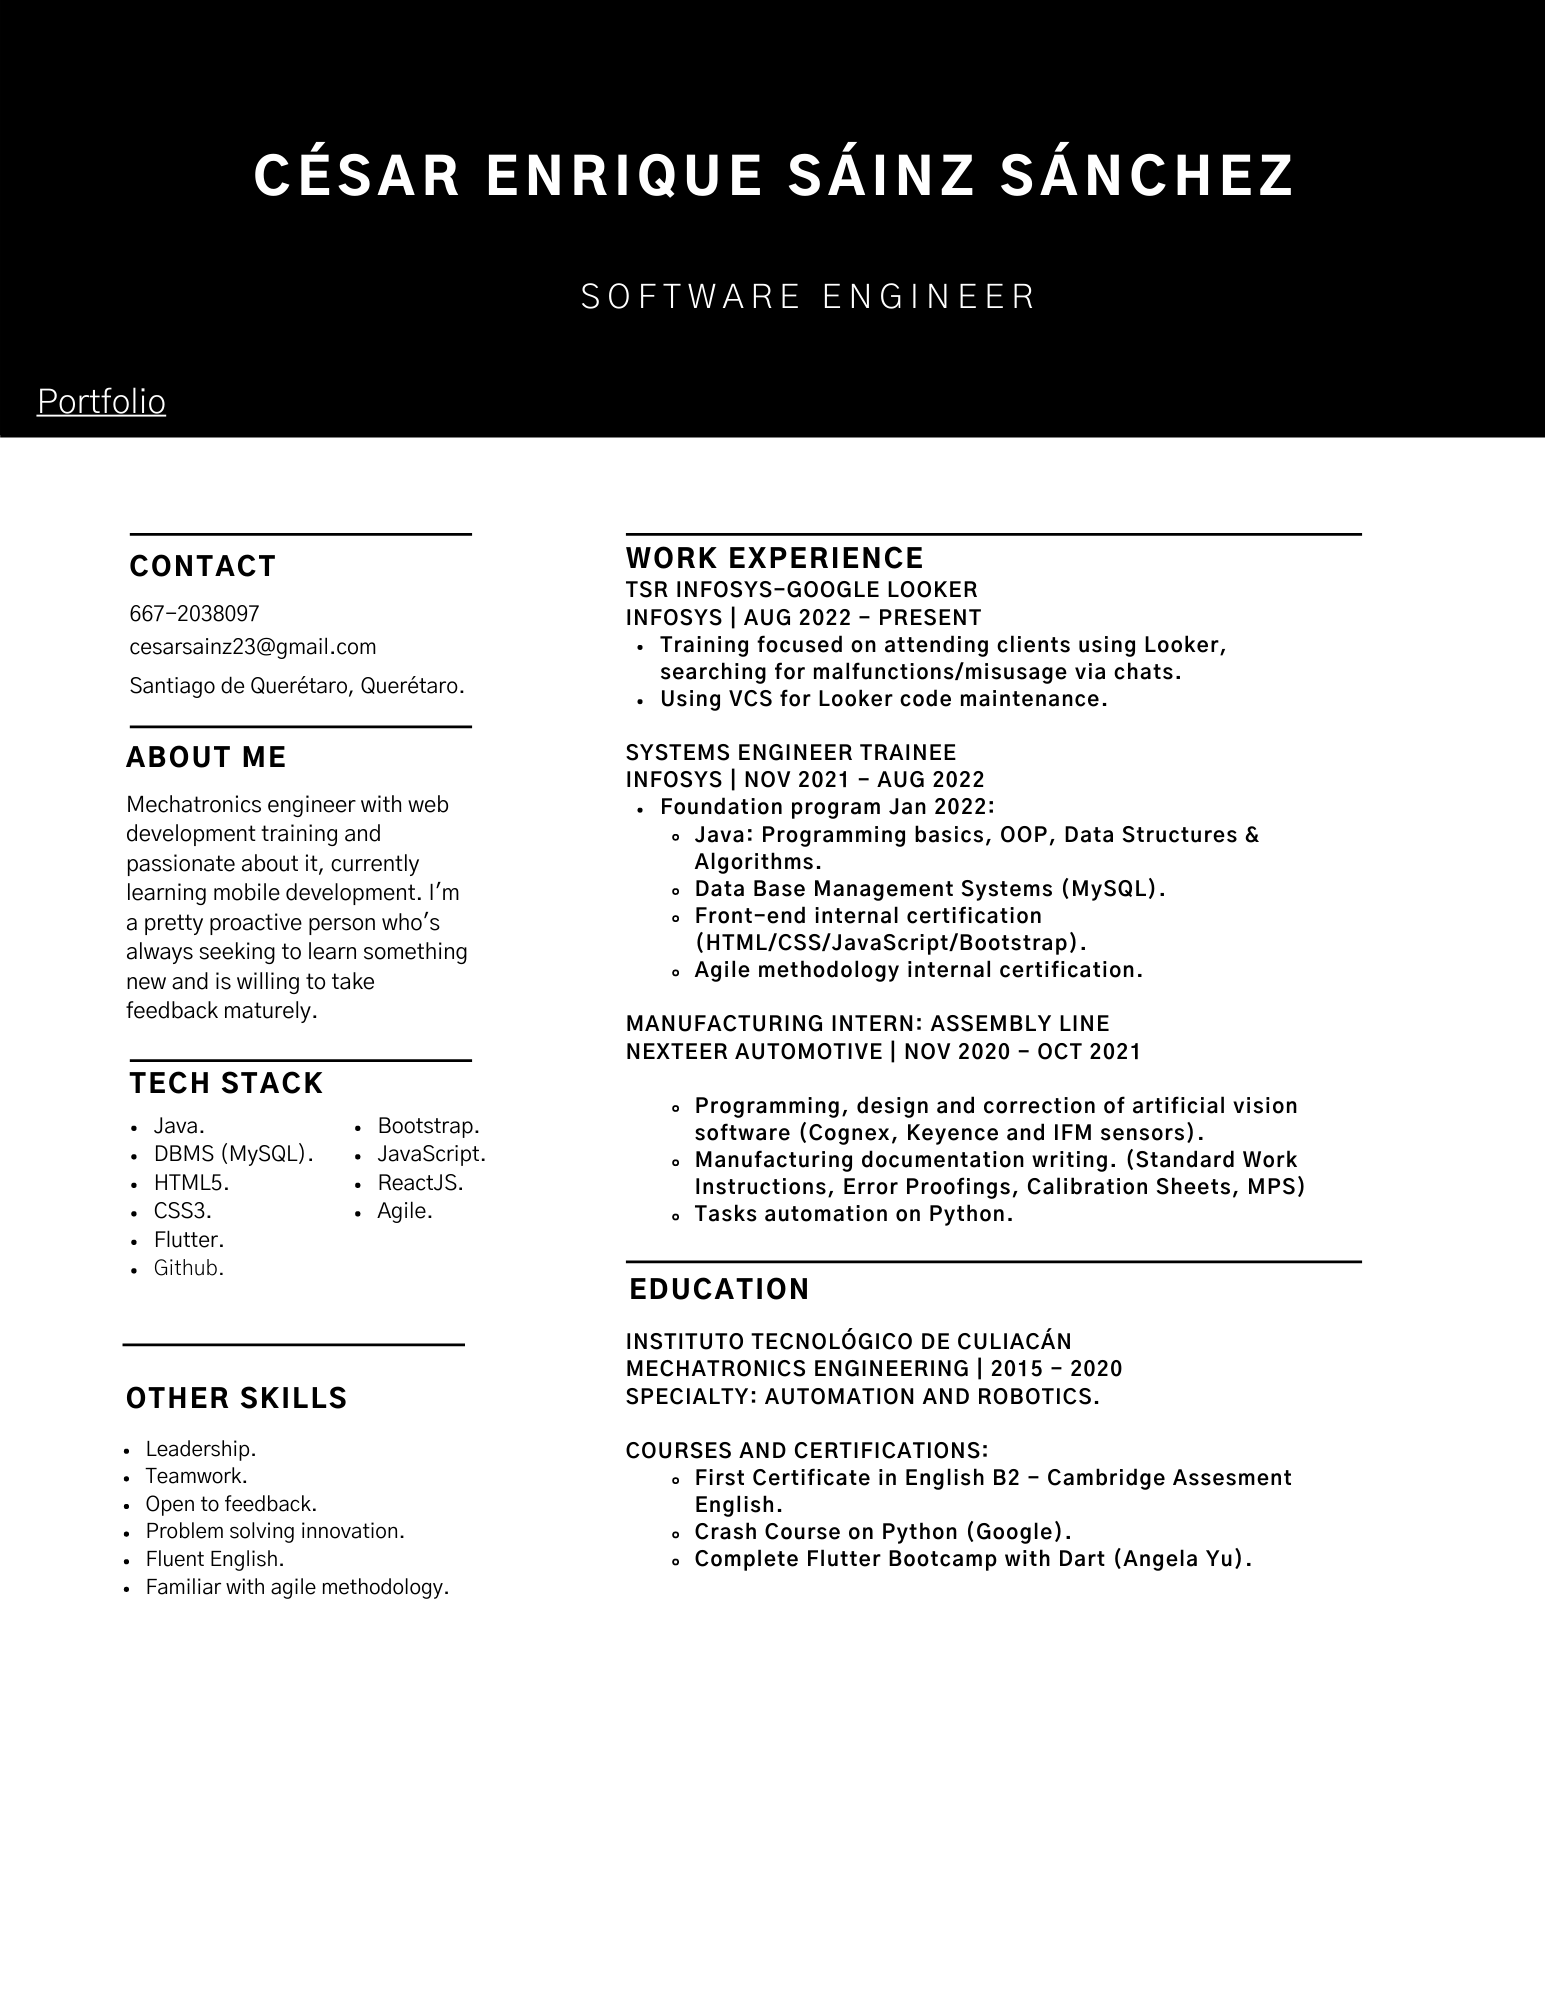
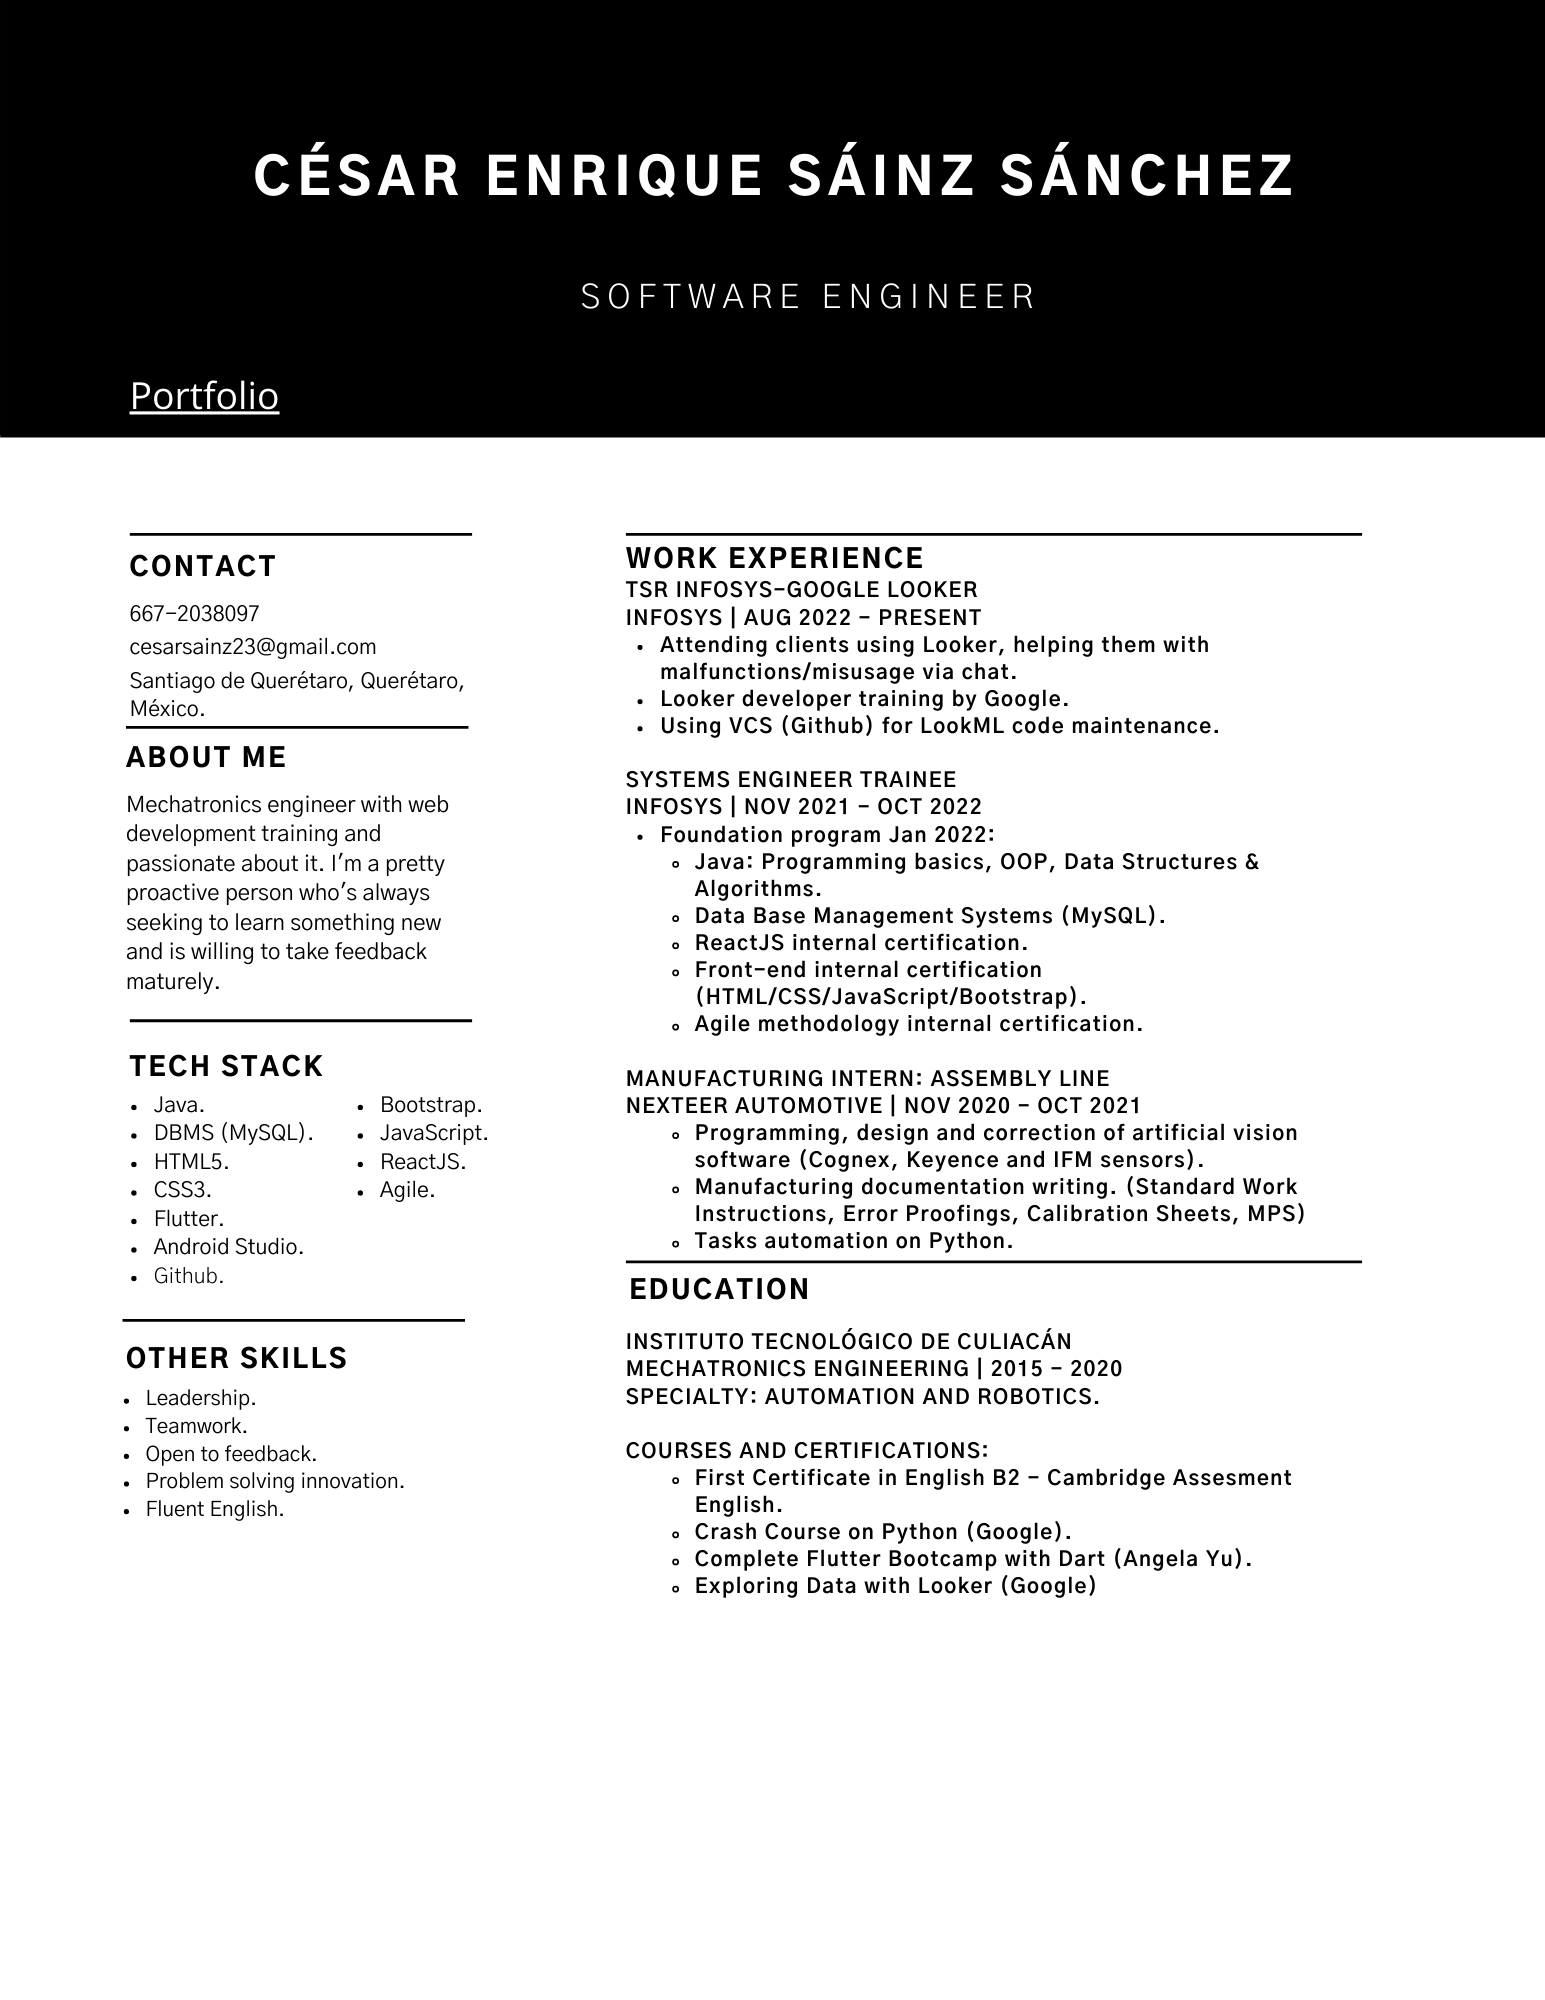
Added advice generator
Also updated resume.png

diff --git a/src/components/Projects.js b/src/components/Projects.js
@@ -3,6 +3,7 @@ import { AiFillLinkedin,AiFillGithub, AiFillMail } from 'react-icons/ai';
 import quizzler from '../assets/flutterAppOne.png'
 import xylophone from '../assets/flutterAppTwo.png'
 import creditcard from '../assets/creditCardProject.png'
+import advicegenerator from '../assets/adviceGenerator.png'
 
 
 function Projects(){
@@ -17,6 +18,17 @@ function Projects(){
 
         <div className='subtitle'>
             <h1 style={{textDecoration: "underline"}}>Web projects</h1>
+            <div className='projects'>
+                <div className='card'>
+                    <img className= 'project-pic' src={advicegenerator} style={{width: '100%'}} />
+                    <div className='project-description'><h4>Web App showing advices, fetching data from the advice-generator API. Made with ReactJS.</h4></div>
+                    <a href='https://github.com/CesarSainz/advice-generator'><span className='button-source'>Source code</span></a>
+                    <a href='https://cesaradvice.netlify.app/'><span className='button-source'>Functioning Website</span></a>
+                </div>
+            <br></br>
+            <br></br>
+            </div><br></br><br></br><br></br><br></br>
+
             <div className='projects'>
                 <div className='card'>
                     <img className= 'project-pic' src={creditcard} />

diff --git a/src/App.css b/src/App.css
@@ -220,6 +220,7 @@ table{
 .project-pic{
   height:600px;
   border-radius: 10%;
+
 }
 
 .project-description{
